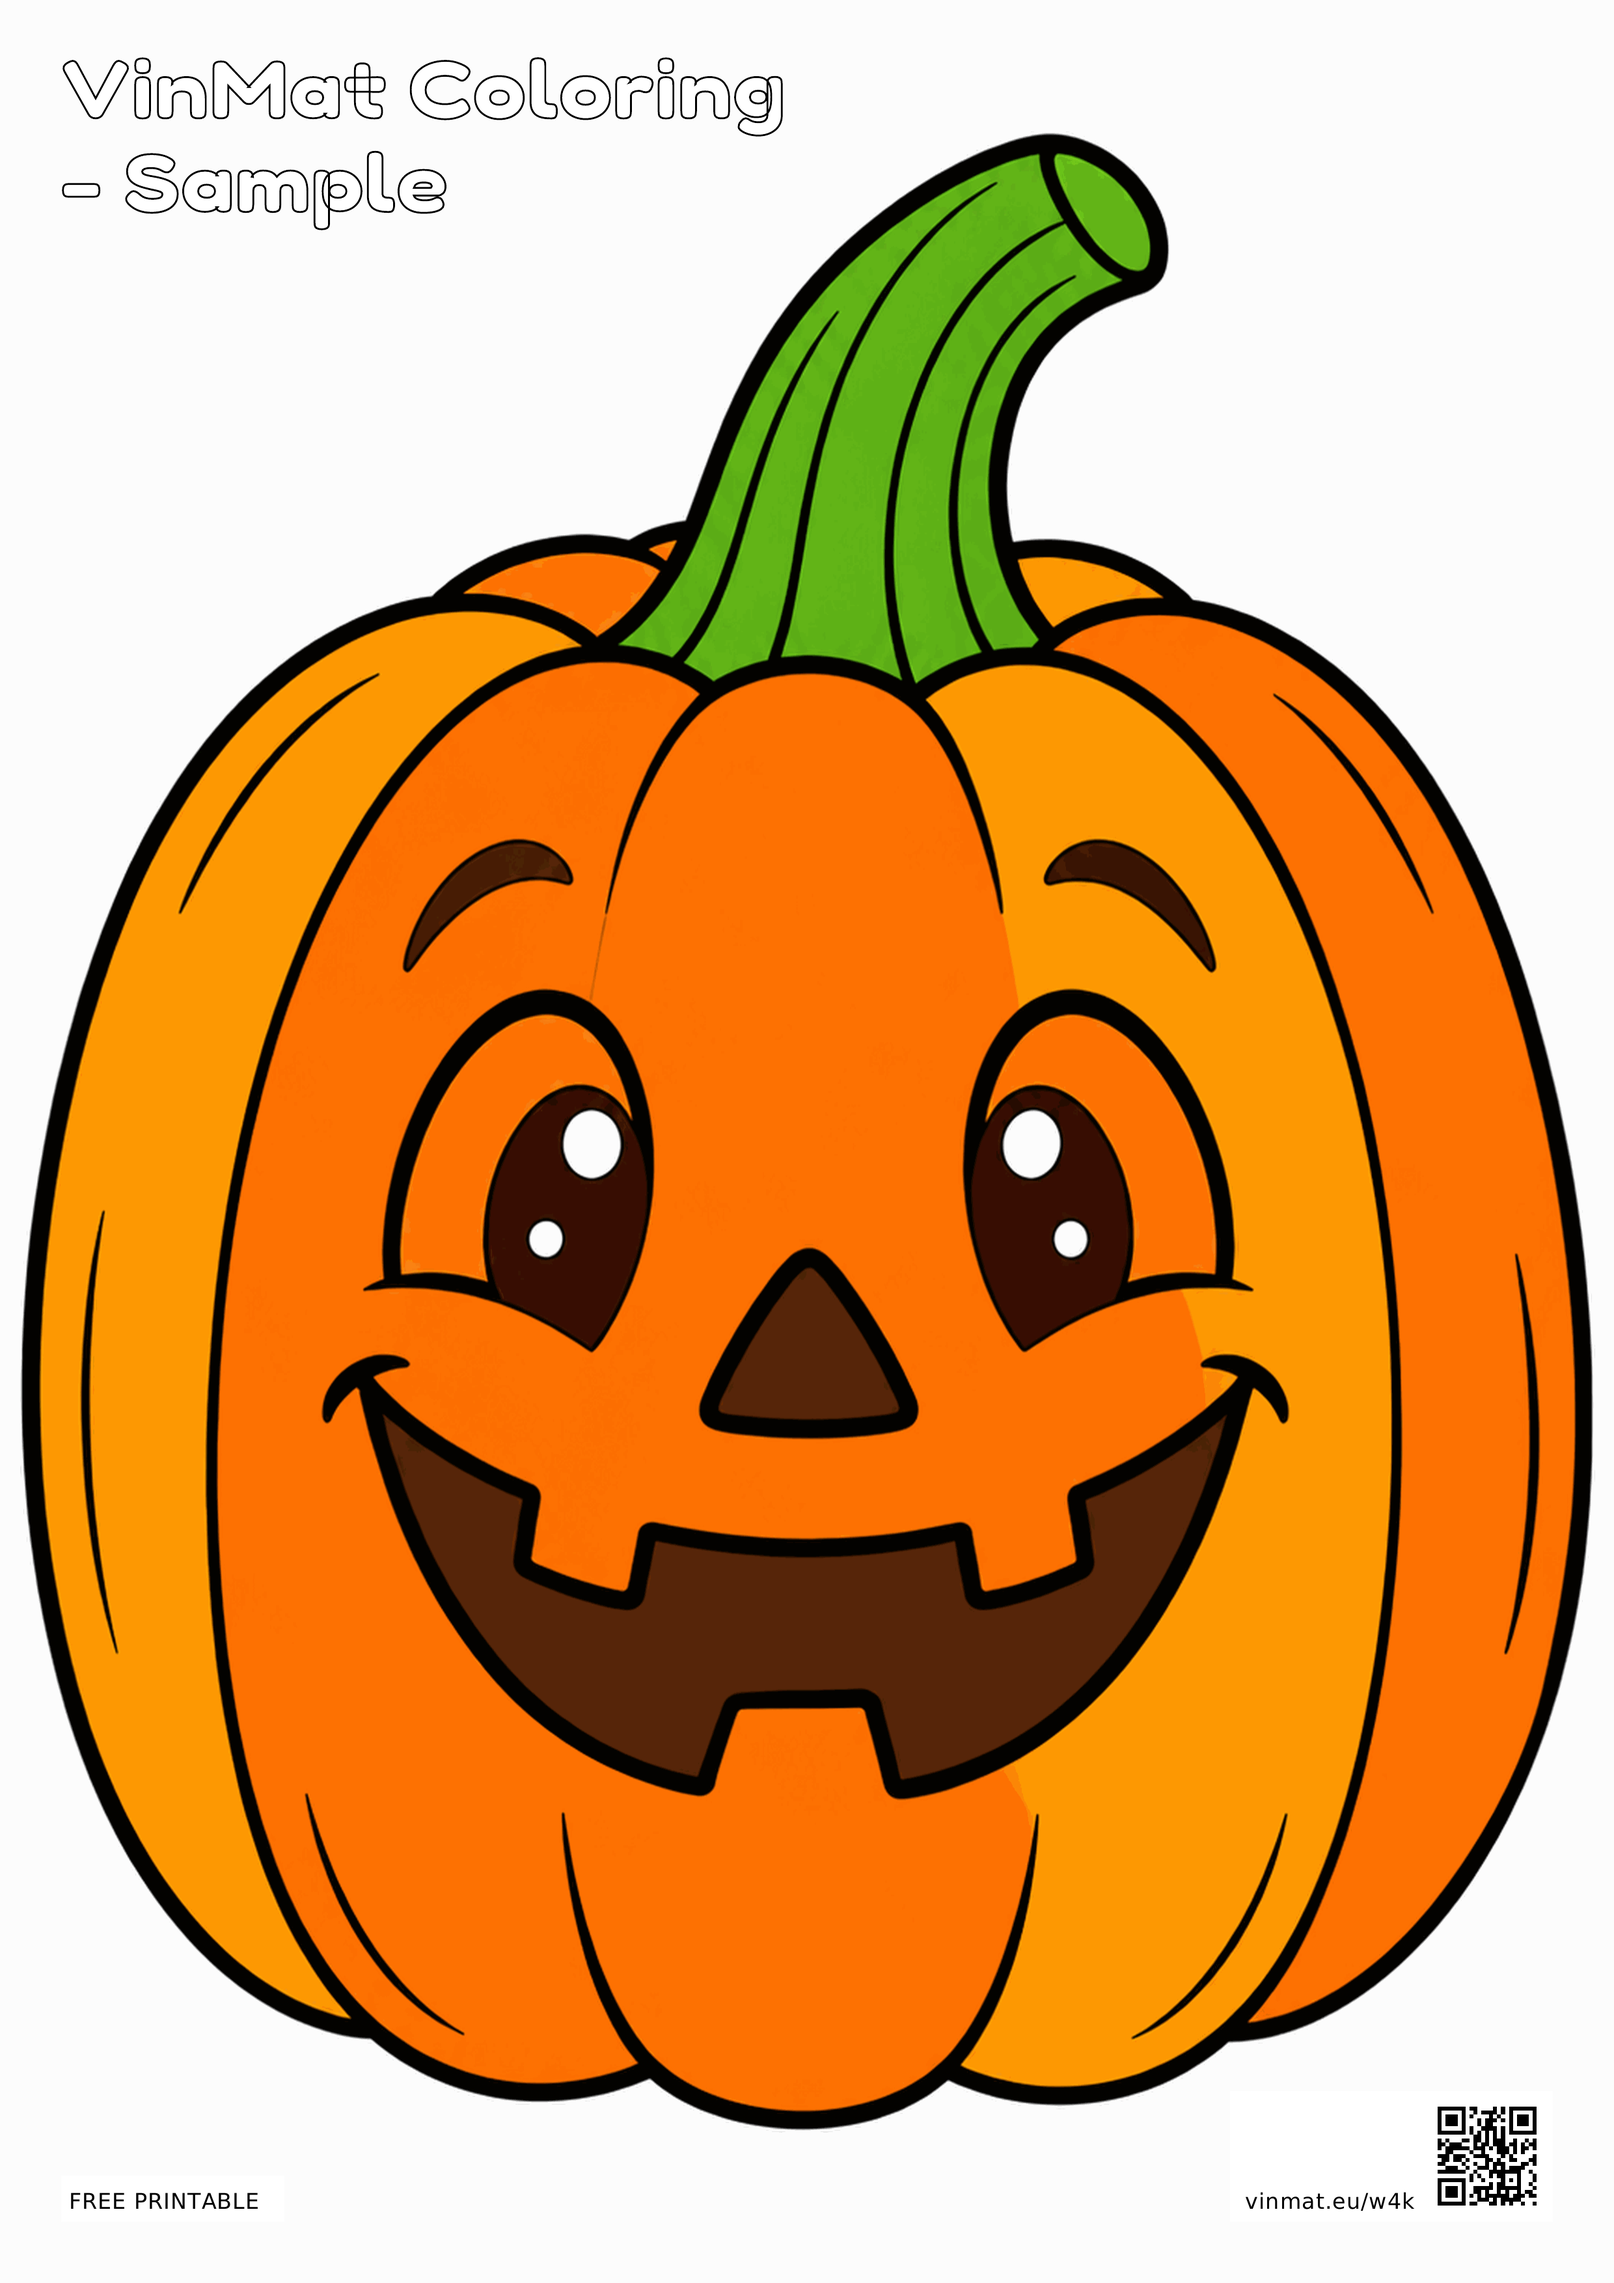
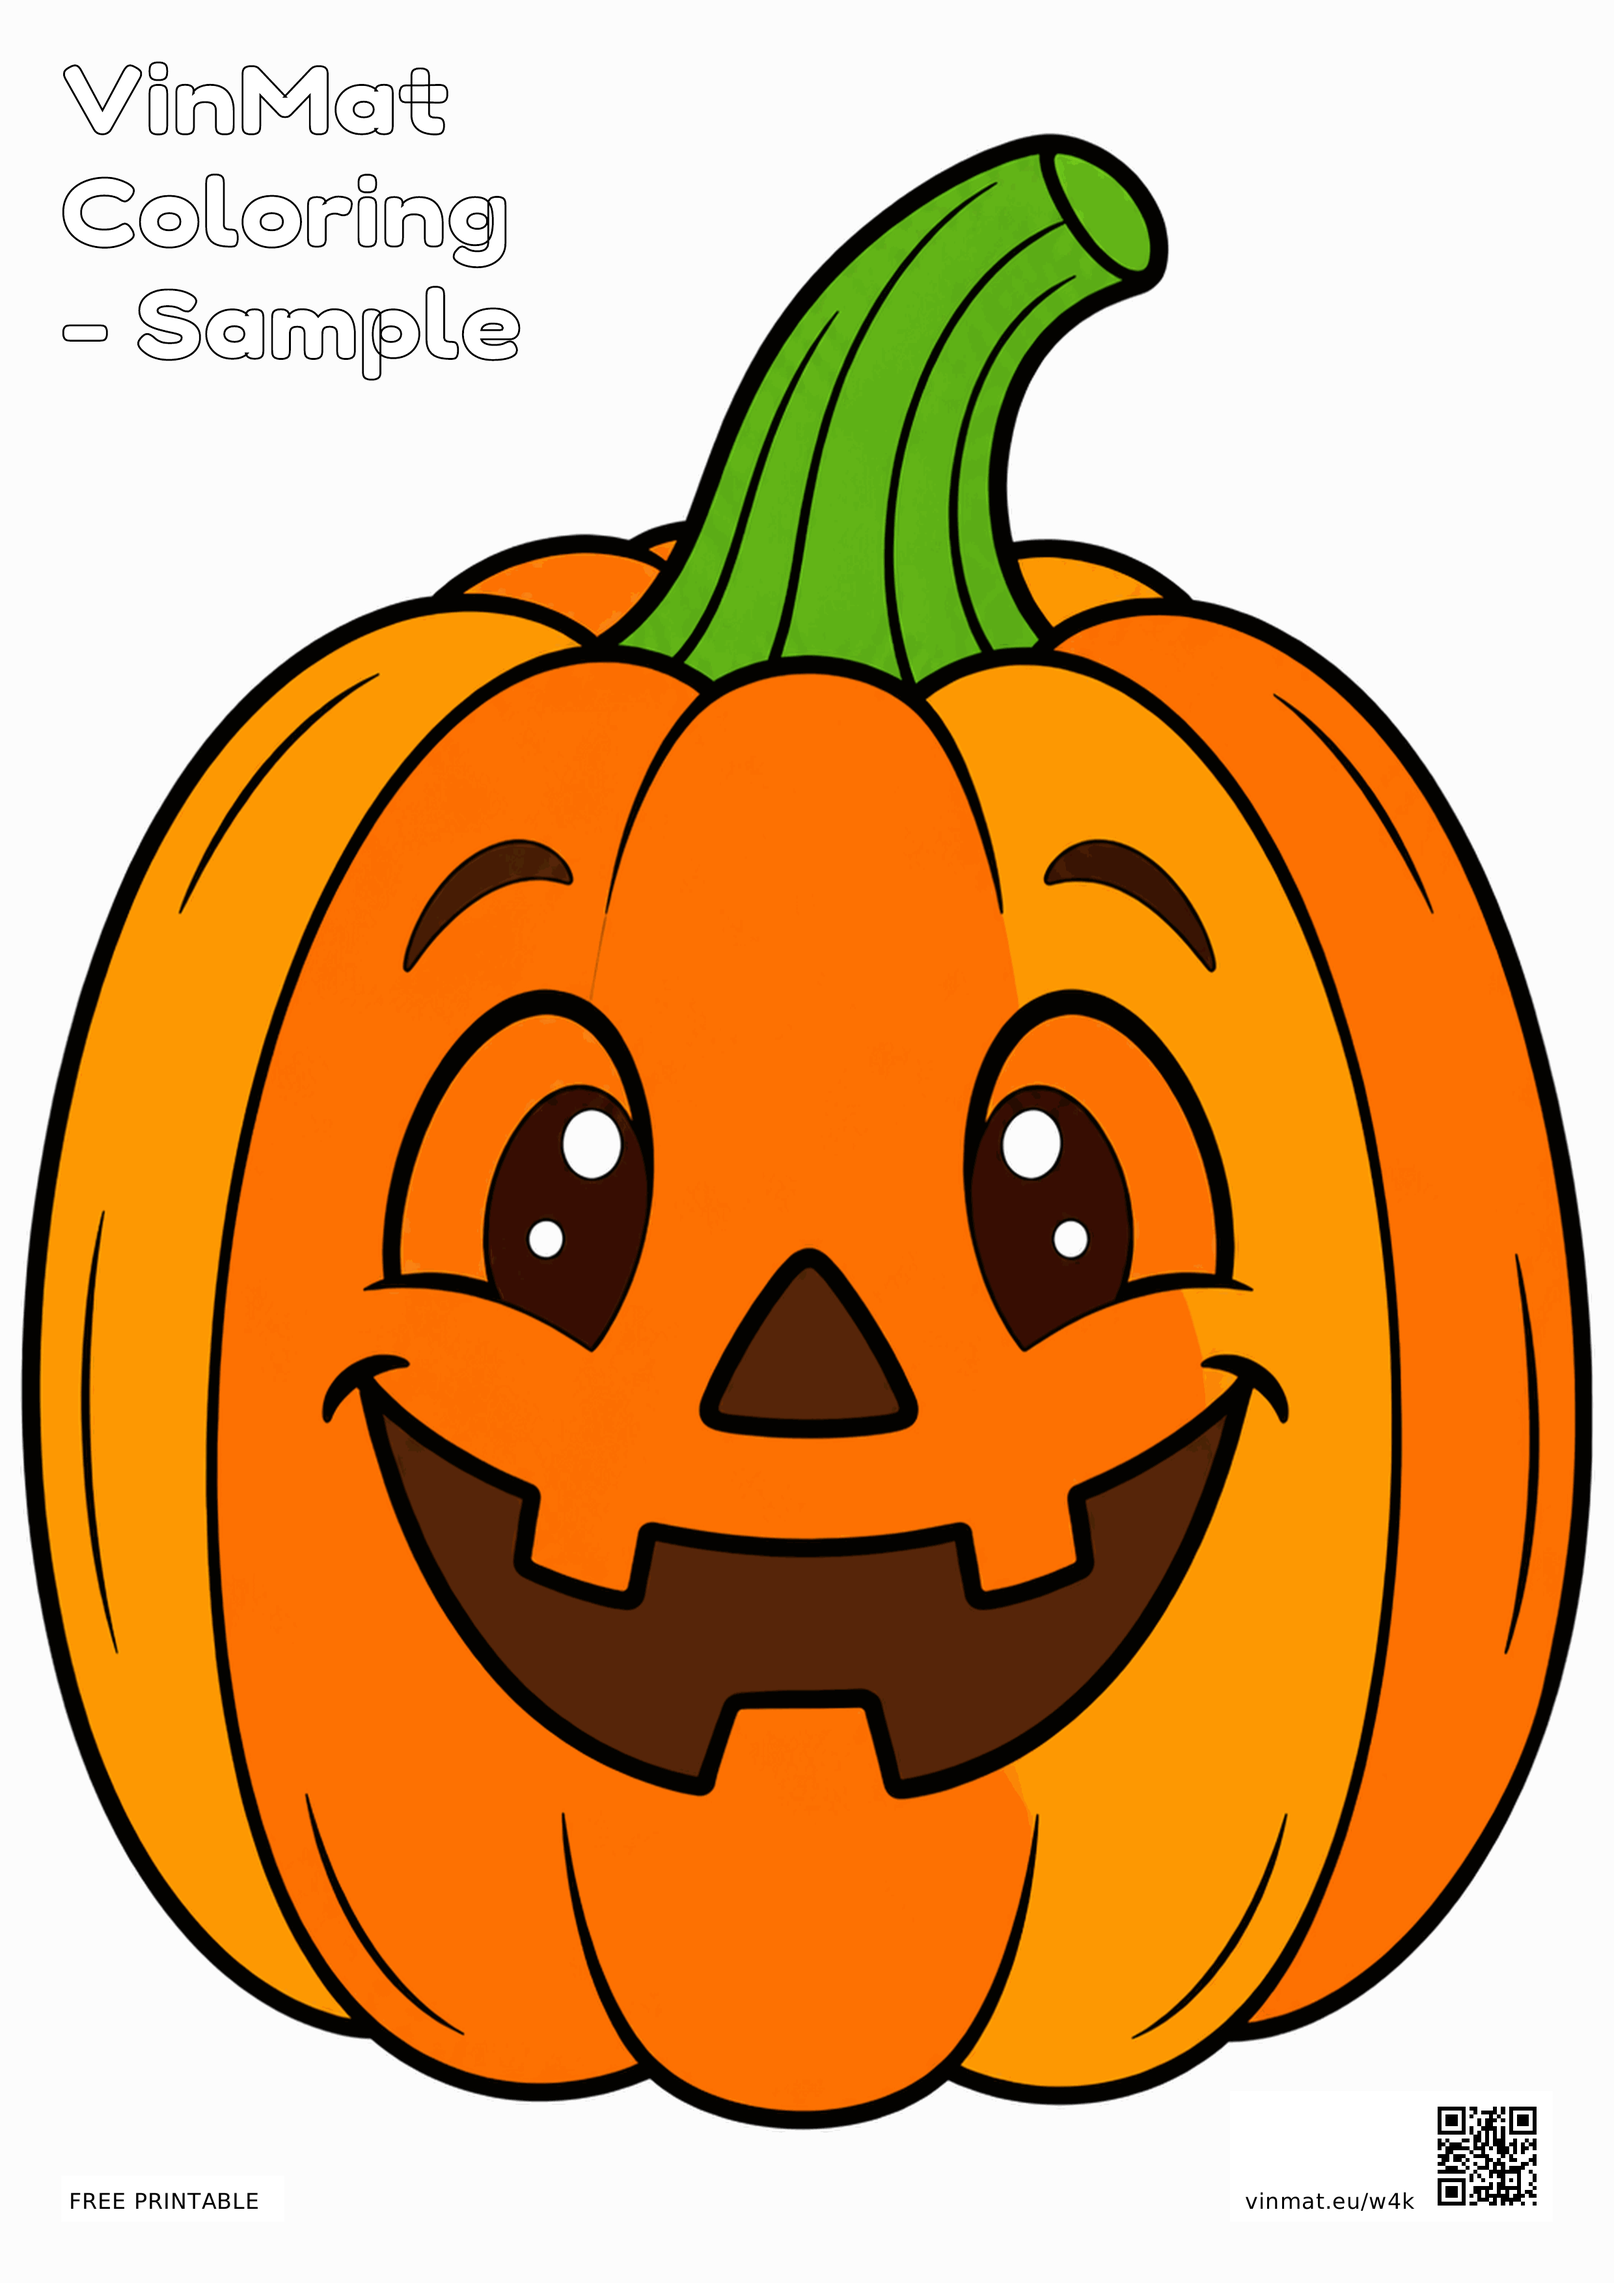
Wrap pumpkin printable title into separate VinMat and Coloring lines

Changed region(s): [[0.031, 0.0311, 0.4968, 0.1554], [0.0931, 0.1243, 0.1242, 0.1554]]

diff --git a/tools/brand-printable.py b/tools/brand-printable.py
@@ -33,7 +33,8 @@ def place_title(image, text):
     font = pdfmetrics.getFont('RoundedTitle')
     for size in (36, 34, 32, 30, 28):
         wrapped = [text.split(' - ')[0], '- '+text.split(' - ')[1]] if ' - ' in text else ['VinMat', 'Coloring']
-        for lines in ([text], wrapped):
+        line_options = [text.splitlines()] if '\n' in text else ([text], wrapped)
+        for lines in line_options:
             line_widths = [pdfmetrics.stringWidth(line, 'RoundedTitle', size)
                            + (len(line) - 1) * 0.8 for line in lines]
             width = max(line_widths)
